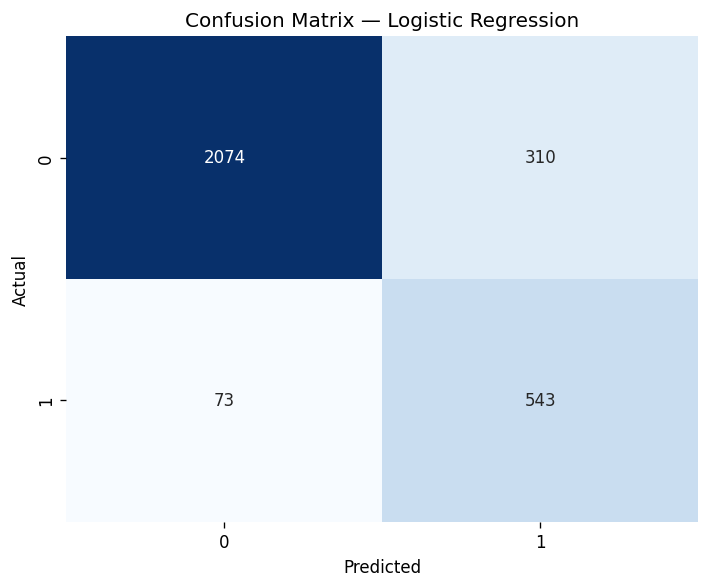
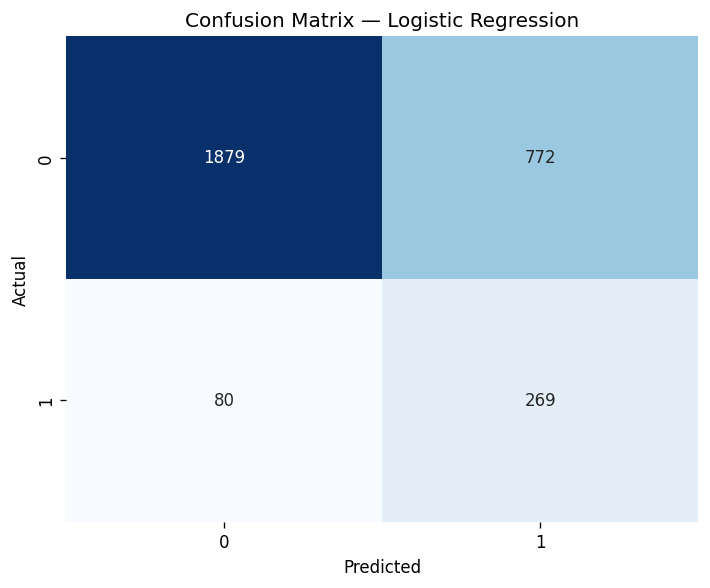
backend/ml:train_model.py changed

diff --git a/backend/ml/train_model.py b/backend/ml/train_model.py
@@ -58,6 +58,9 @@ dti        = annuity / (income / 12)
 lti        = loan_amount / income
 ext_mean   = (ext1 + ext2 + ext3) / 3
 
+print(f"   Avg DTI in dataset: {dti.mean():.3f}  |  Median: {np.median(dti):.3f}")
+print(f"   Avg LTI in dataset: {lti.mean():.3f}  |  Median: {np.median(lti):.3f}")
+
 # log_odds = (
 #     -3.5
 #     + 0.025  * (age - 40)
@@ -73,13 +76,27 @@ ext_mean   = (ext1 + ext2 + ext3) / 3
 #     + np.random.normal(0, 0.4, N)
 # )
 
+# log_odds = (
+#     -6.0
+#     + 0.015  * (age - 40)
+#     - 0.005  * (income / 10000)
+#     + 0.0005 * (loan_amount / 10000)
+#     + 1.8    * dti.clip(0, 3)
+#     + 0.9    * lti.clip(0, 5)
+#     - 4.0    * ext_mean
+#     - 0.06   * employment_yrs
+#     + 0.10   * (family_members > 4).astype(float)
+#     + np.where(education == 'Lower secondary', 0.3, 0)
+#     + np.where(income_type == 'Pensioner', 0.2, 0)
+#     + np.random.normal(0, 0.3, N)
+# )
+
 log_odds = (
-    -6.0
+    -3.0                              # raise intercept significantly
     + 0.015  * (age - 40)
-    - 0.005  * (income / 10000)
-    + 0.0005 * (loan_amount / 10000)
-    + 1.8    * dti.clip(0, 3)
-    + 0.9    * lti.clip(0, 5)
+    - 0.002  * (income / 10000)
+    + 2.5    * dti.clip(0, 2)        # DTI now 0.1–0.6, needs stronger weight
+    + 0.8    * lti.clip(0, 5)        # LTI now 0.5–5.0, keep moderate
     - 4.0    * ext_mean
     - 0.06   * employment_yrs
     + 0.10   * (family_members > 4).astype(float)
@@ -87,6 +104,7 @@ log_odds = (
     + np.where(income_type == 'Pensioner', 0.2, 0)
     + np.random.normal(0, 0.3, N)
 )
+
 prob_default = 1 / (1 + np.exp(-log_odds))
 target = (np.random.uniform(0, 1, N) < prob_default).astype(int)
 

diff --git a/backend/ml/train_model1.py b/backend/ml/train_model1.py
@@ -59,16 +59,28 @@ ext_mean   = (ext1 + ext2 + ext3) / 3
 
 print(f"   Avg DTI in dataset: {dti.mean():.3f}  |  Median: {np.median(dti):.3f}")
 print(f"   Avg LTI in dataset: {lti.mean():.3f}  |  Median: {np.median(lti):.3f}")
-exit()
 
+# log_odds = (
+#     -6.0
+#     + 0.015  * (age - 40)
+#     - 0.005  * (income / 10000)
+#     + 0.0005 * (loan_amount / 10000)
+#     + 1.8    * dti.clip(0, 3)
+#     + 0.9    * lti.clip(0, 5)
+#     - 4.0    * ext_mean
+#     - 0.06   * employment_yrs
+#     + 0.10   * (family_members > 4).astype(float)
+#     + np.where(education == 'Lower secondary', 0.3, 0)
+#     + np.where(income_type == 'Pensioner', 0.2, 0)
+#     + np.random.normal(0, 0.3, N)
+# )
 
 log_odds = (
-    -6.0
+    -3.0                             # raise intercept significantly
     + 0.015  * (age - 40)
-    - 0.005  * (income / 10000)
-    + 0.0005 * (loan_amount / 10000)
-    + 1.8    * dti.clip(0, 3)
-    + 0.9    * lti.clip(0, 5)
+    - 0.002  * (income / 10000)
+    + 2.5    * dti.clip(0, 2)        # DTI now 0.1–0.6, needs stronger weight
+    + 0.8    * lti.clip(0, 5)        # LTI now 0.5–5.0, keep moderate
     - 4.0    * ext_mean
     - 0.06   * employment_yrs
     + 0.10   * (family_members > 4).astype(float)
@@ -76,11 +88,12 @@ log_odds = (
     + np.where(income_type == 'Pensioner', 0.2, 0)
     + np.random.normal(0, 0.3, N)
 )
+
 prob_default = 1 / (1 + np.exp(-log_odds))
 target = (np.random.uniform(0, 1, N) < prob_default).astype(int)
 
 print(f"   Default rate: {target.mean()*100:.1f}%  (target: ~8–12%)")
-
+exit()
 df = pd.DataFrame({
     'age': age,
     'income': income,
